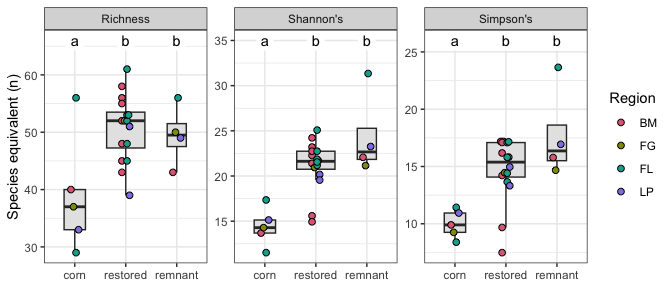
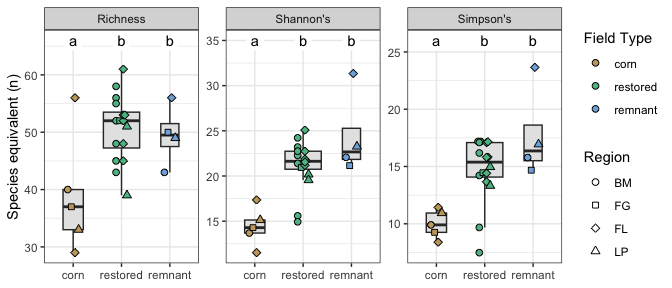
UPDATED supporting files for the summary

diff --git a/microbial_diversity.md b/microbial_diversity.md
@@ -2,7 +2,7 @@ Microbial data: overview of data, diversity statistics
 ================
 Beau Larkin
 
-Last updated: 08 December, 2023
+Last updated: 12 December, 2023
 
 - [Description](#description)
 - [Packages and libraries](#packages-and-libraries)
@@ -639,12 +639,14 @@ div$its_rfy %>%
     ggplot(aes(x = field_type, y = value)) +
     facet_wrap(vars(hill_index), scales = "free_y", labeller = labeller(hill_index = hill_labs)) +
     geom_boxplot(varwidth = TRUE, fill = "gray90", outlier.shape = NA) +
-    geom_beeswarm(aes(fill = region), shape = 21, size = 2, dodge.width = 0.2) +
+    geom_beeswarm(aes(shape = region, fill = field_type), size = 2, dodge.width = 0.3) +
     geom_label(data = labs_its, aes(x = xpos, y = ypos, label = lab), label.size = NA) +
     labs(y = "Species equivalent (n)") +
-    scale_fill_discrete_qualitative(name = "Region", palette = "Dark3") +
+    scale_fill_discrete_qualitative(name = "Field Type", palette = "Harmonic") +
+    scale_shape_manual(name = "Region", values = c(21, 22, 23, 24)) +
     theme_bw() +
-    theme(axis.title.x = element_blank())
+    theme(axis.title.x = element_blank()) +
+    guides(fill = guide_legend(override.aes = list(shape = 21)))
 ```
 
 ![](microbial_diversity_files/figure-gfm/div_its_box-1.png)<!-- -->
@@ -1169,12 +1171,14 @@ div$amf_rfy %>%
     ggplot(aes(x = field_type, y = value)) +
     facet_wrap(vars(hill_index), scales = "free_y", labeller = labeller(hill_index = hill_labs)) +
     geom_boxplot(varwidth = TRUE, fill = "gray90", outlier.shape = NA) +
-    geom_beeswarm(aes(fill = region), shape = 21, size = 2, dodge.width = 0.2) +
+    geom_beeswarm(aes(shape = region, fill = field_type), size = 2, dodge.width = 0.3) +
     geom_label(data = labs_amf %>% filter(hill_index != "E10"), aes(x = xpos, y = ypos, label = lab), label.size = NA) +
     labs(y = "Species equivalent (n)") +
-    scale_fill_discrete_qualitative(name = "Region", palette = "Dark3") +
+    scale_fill_discrete_qualitative(name = "Field Type", palette = "Harmonic") +
+    scale_shape_manual(name = "Region", values = c(21, 22, 23, 24)) +
     theme_bw() +
-    theme(axis.title.x = element_blank())
+    theme(axis.title.x = element_blank()) +
+    guides(fill = guide_legend(override.aes = list(shape = 21)))
 ```
 
 ![](microbial_diversity_files/figure-gfm/div_amf_box-1.png)<!-- -->

diff --git a/soil_wsa.md b/soil_wsa.md
@@ -2,7 +2,7 @@ Soil: water stable aggregates
 ================
 Beau Larkin
 
-Last updated: 07 December, 2023
+Last updated: 12 December, 2023
 
 - [Description](#description)
 - [Packages and libraries](#packages-and-libraries)
@@ -170,9 +170,9 @@ summary(wsa_mod_tuk)
     ## 
     ## Linear Hypotheses:
     ##                         Estimate Std. Error z value Pr(>|z|)   
-    ## restored - corn == 0      14.538      4.183   3.475  0.00143 **
-    ## remnant - corn == 0        3.227      5.365   0.602  0.81716   
-    ## remnant - restored == 0  -11.311      4.593  -2.462  0.03612 * 
+    ## restored - corn == 0      14.538      4.183   3.475  0.00145 **
+    ## remnant - corn == 0        3.227      5.365   0.602  0.81715   
+    ## remnant - restored == 0  -11.311      4.593  -2.462  0.03613 * 
     ## ---
     ## Signif. codes:  0 '***' 0.001 '**' 0.01 '*' 0.05 '.' 0.1 ' ' 1
     ## (Adjusted p values reported -- single-step method)
@@ -216,11 +216,14 @@ sig_letters <- data.frame(
 ggplot(wsa, 
        aes(x = field_type, y = wsa)) +
     geom_boxplot(fill = "gray90", varwidth = FALSE, outlier.shape = NA) +
-    geom_beeswarm(aes(fill = region), shape = 21, size = 2, dodge.width = 0.2) +
-    geom_text(data = sig_letters, aes(x = xpos, y = ypos, label = lab)) +
-    labs(x = "", y = "Water stable aggregates (%)") +
-    scale_fill_discrete_qualitative(name = "Region", palette = "Dark2") +
-    theme_bw()
+    geom_beeswarm(aes(shape = region, fill = field_type), size = 2, dodge.width = 0.3) +
+    geom_label(data = sig_letters, aes(x = xpos, y = ypos, label = lab), label.size = NA) +
+    labs(y = "Species equivalent (n)") +
+    scale_fill_discrete_qualitative(name = "Field Type", palette = "Harmonic") +
+    scale_shape_manual(name = "Region", values = c(21, 22, 23, 24)) +
+    theme_bw() +
+    theme(axis.title.x = element_blank()) +
+    guides(fill = guide_legend(override.aes = list(shape = 21)))
 ```
 
 <img src="soil_wsa_files/figure-gfm/wsa_regions_fieldtypes_fig-1.png" style="display: block; margin: auto;" />
